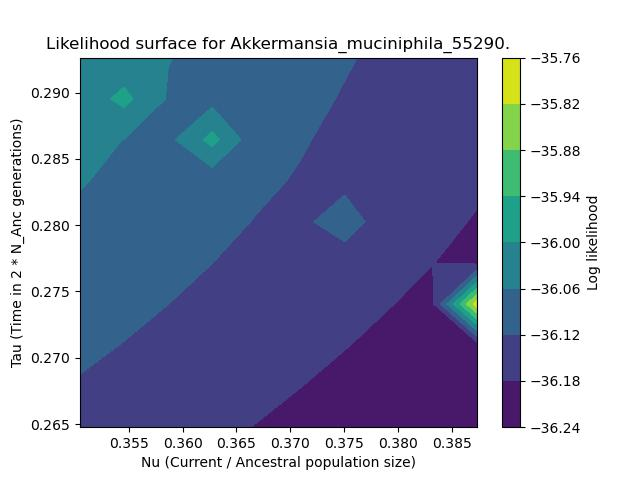
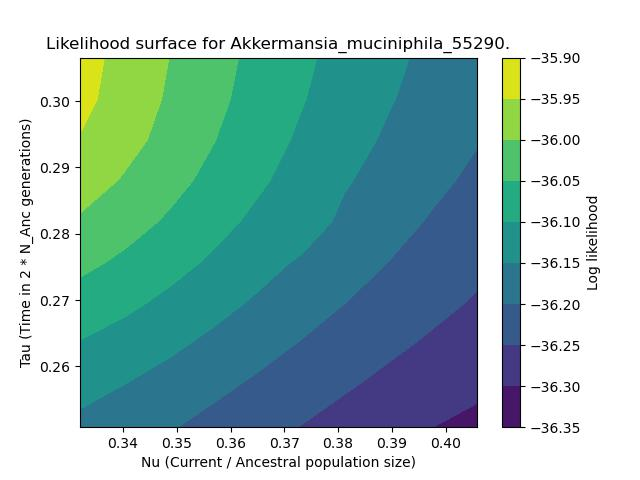
Contour plot test

diff --git a/Scripts/plot_likelihood.py b/Scripts/plot_likelihood.py
@@ -466,8 +466,8 @@ class PlotLikelihood():
 
                 npts = 10
 
-                x_range = numpy.linspace(x * 0.95, x * 1.05, npts)
-                y_range = numpy.linspace(y * 0.95, y * 1.05, npts)
+                x_range = numpy.linspace(x * 0.9, x * 1.1, npts)
+                y_range = numpy.linspace(y * 0.9, y * 1.1, npts)
 
                 X, Y = numpy.meshgrid(x_range, y_range)
 
